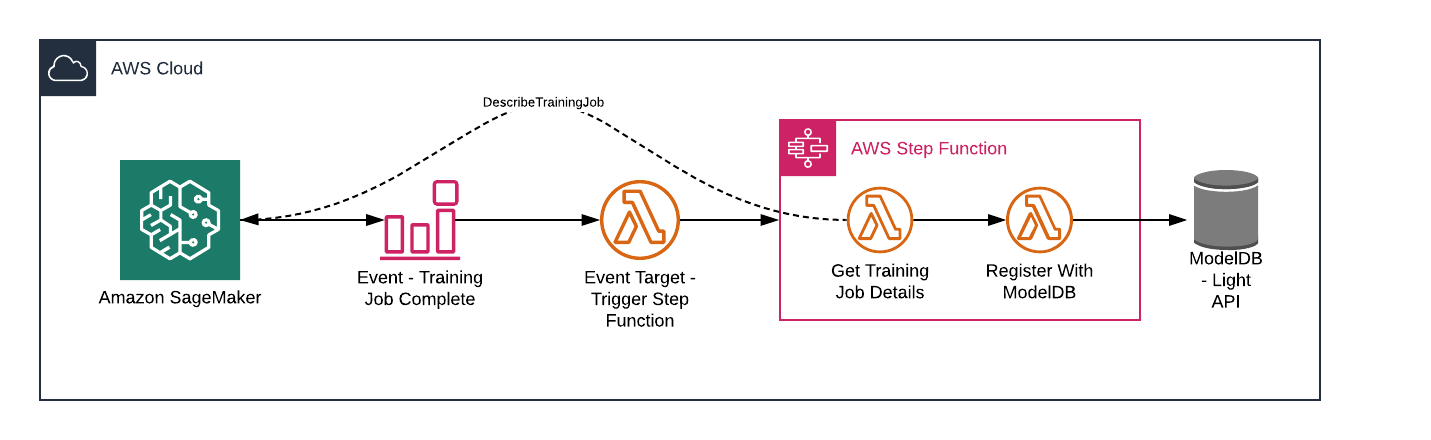
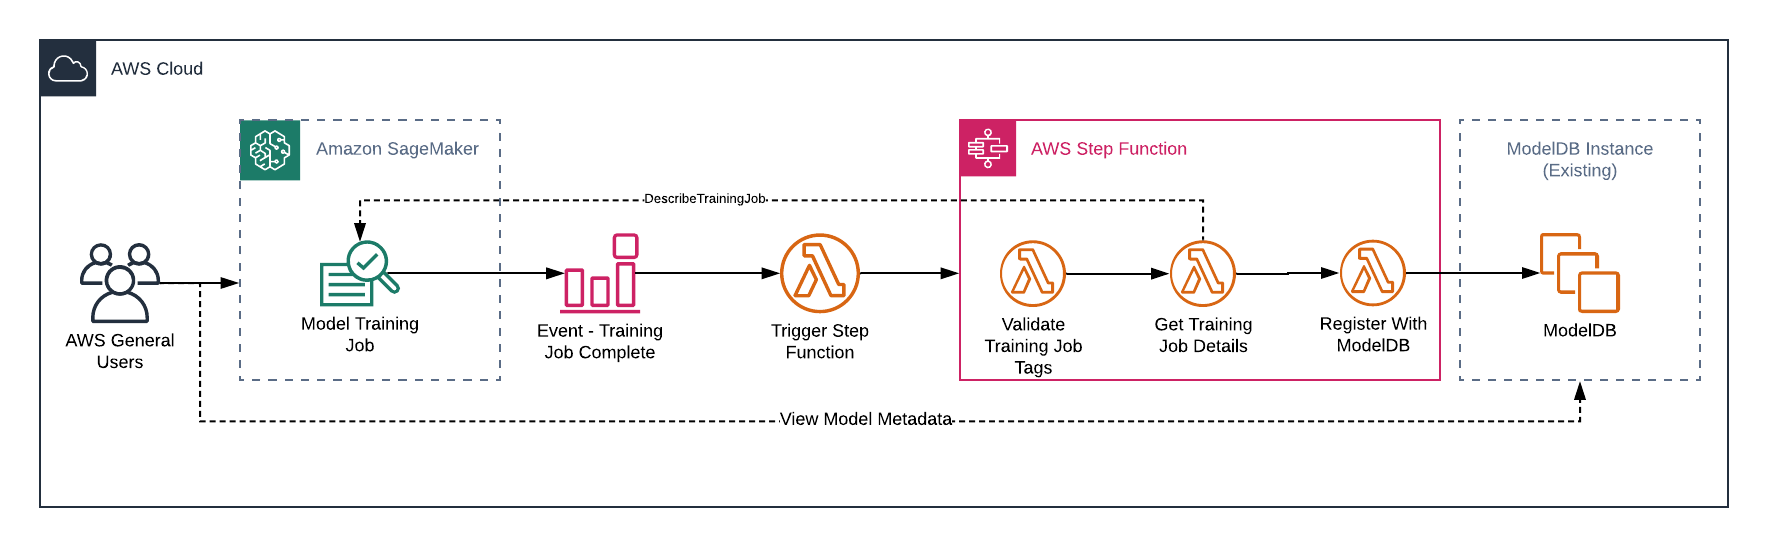
Adds validation of tags, and uses defined tag data when syncing with ModelDB.

Changed region(s): [[0.0, 0.0591, 0.9839, 0.9455], [0.8302, 0.2659, 0.9532, 0.325], [0.3382, 0.2068, 0.4305, 0.2659]]

diff --git a/functions/validate_training_job_tags/app.py b/functions/validate_training_job_tags/app.py
@@ -1,0 +1,84 @@
+ # Copyright 2019 Amazon.com, Inc. or its affiliates. All Rights Reserved.
+ #
+ # Permission is hereby granted, free of charge, to any person obtaining a copy of this
+ # software and associated documentation files (the "Software"), to deal in the Software
+ # without restriction, including without limitation the rights to use, copy, modify,
+ # merge, publish, distribute, sublicense, and/or sell copies of the Software, and to
+ # permit persons to whom the Software is furnished to do so.
+ #
+ # THE SOFTWARE IS PROVIDED "AS IS", WITHOUT WARRANTY OF ANY KIND, EXPRESS OR IMPLIED,
+ # INCLUDING BUT NOT LIMITED TO THE WARRANTIES OF MERCHANTABILITY, FITNESS FOR A
+ # PARTICULAR PURPOSE AND NONINFRINGEMENT. IN NO EVENT SHALL THE AUTHORS OR COPYRIGHT
+ # HOLDERS BE LIABLE FOR ANY CLAIM, DAMAGES OR OTHER LIABILITY, WHETHER IN AN ACTION
+ # OF CONTRACT, TORT OR OTHERWISE, ARISING FROM, OUT OF OR IN CONNECTION WITH THE
+ # SOFTWARE OR THE USE OR OTHER DEALINGS IN THE SOFTWARE.
+
+import json
+import os
+
+def validateTags(tagNames, trainingJobTags):
+    print('Validating the Existance of {} in {}'.format(tagNames, trainingJobTags))
+    
+    passedValidation = []
+    failedValidation = []
+
+    for tag in tagNames:
+        if tag['Value'] in trainingJobTags:
+            print('Tag {} Exists in Training Job Tags'.format(tag['Value']))
+            passedValidation.append(tag)
+        else:
+            print('Tag {} Does Not Exist in Training Job Tags'.format(tag['Value']))
+            failedValidation.append(tag)
+
+    if len(failedValidation) > 0:
+        print('The Folllowing Tags Failed Validation: {}'.format(failedValidation))
+        return 'FAILED'
+    else:
+        return 'PASSED'
+
+def lambda_handler(event, context):
+    print(event)
+
+    trainingJobName = event['trainingJobName']
+    trainingJobTags = event['trainingJobTags']
+
+    tagNames = [
+        {
+            'Name': 'TAG_MODEL_DB_SYNC',
+            'Value': os.environ['TAG_MODEL_DB_SYNC'],
+        },
+        {
+            'Name': 'TAG_MODEL_DB_PROJECT_NAME',
+            'Value': os.environ['TAG_MODEL_DB_PROJECT_NAME'],
+        },
+        {
+            'Name': 'TAG_MODEL_DB_PROJECT_USER',
+            'Value': os.environ['TAG_MODEL_DB_PROJECT_USER'],
+        },
+        {
+            'Name': 'TAG_MODEL_DB_PROJECT_DESC',
+            'Value': os.environ['TAG_MODEL_DB_PROJECT_DESC'],
+        },
+        {
+            'Name': 'TAG_MODEL_DB_MODEL_NAME',
+            'Value': os.environ['TAG_MODEL_DB_MODEL_NAME'],
+        },
+        {
+            'Name': 'TAG_MODEL_DB_MODEL_TYPE',
+            'Value': os.environ['TAG_MODEL_DB_MODEL_TYPE'],
+        }
+    ]
+ 
+    try:
+        validationResult = validateTags(tagNames, trainingJobTags)
+
+        return {
+            'trainingJobName': trainingJobName,
+            'tagNames': tagNames,
+            'trainingJobTags': trainingJobTags,
+            'trainingJobTagValidation': validationResult
+             }  
+
+    except Exception as e:
+        message = 'Error validating Training Job Tags: {}'.format(e)
+        raise Exception(message)

diff --git a/functions/sync_model_with_modeldb/app.py b/functions/sync_model_with_modeldb/app.py
@@ -63,14 +63,29 @@ def syncToModelDB(projectName, projectUser, projectDesc, modelName, modelType, t
         message = 'Error Synchronizing Model to Model DB: {}'.format(e)
         raise Exception(message) 
 
+def getTagValue(tagToGet, tagNames, trainingJobTags):
+    for tag in tagNames:
+        if tag['Name'] == tagToGet:
+            if tag['Value']:
+                return trainingJobTags[tag['Value']]
+            else:
+                return 'Default'
+
 def lambda_handler(event, context):
     print(event)
 
     modeldbInstanceUrl = os.environ['MODEL_DB_INSTANCE_URL']
     modeldbInstancePort = os.environ['MODEL_DB_INSTANCE_PORT']
 
-    trainingJobDetails = json.loads(event['data']['trainingJobDetails'])
+    tagNames = event['data']['tagNames']
+    trainingJobTags = event['data']['trainingJobTags']
 
-    print(trainingJobDetails)
+    projectName = getTagValue('TAG_MODEL_DB_PROJECT_NAME', tagNames, trainingJobTags)
+    projectUser = getTagValue('TAG_MODEL_DB_PROJECT_USER', tagNames, trainingJobTags)
+    projectDesc = getTagValue('TAG_MODEL_DB_PROJECT_DESC', tagNames, trainingJobTags)
+    modelName = getTagValue('TAG_MODEL_DB_MODEL_NAME', tagNames, trainingJobTags)
+    modelType = getTagValue('TAG_MODEL_DB_MODEL_TYPE', tagNames, trainingJobTags)
     
-    syncToModelDB('Sample Project', 'Example User', 'This is a sample project.', 'testmodel', 'NN', trainingJobDetails, modeldbInstanceUrl, modeldbInstancePort)
+    trainingJobDetails = json.loads(event['data']['trainingJobDetails'])
+    
+    syncToModelDB(projectName, projectUser, projectDesc, modelName, modelType, trainingJobDetails, modeldbInstanceUrl, modeldbInstancePort)

diff --git a/functions/get_training_job_details/app.py b/functions/get_training_job_details/app.py
@@ -20,15 +20,16 @@ from datetime import date, datetime
 client = boto3.client('sagemaker')
 
 # JSON Serializer for Metric TimeStamps
-def json_serial(obj):
+def jsonSerial(obj):
     if isinstance(obj, (datetime, date)):
         return obj.isoformat()
     raise TypeError ("Type %s not serializable." % type(obj))
 
 def lambda_handler(event, context):
 
-    trainingJobName = event['trainingJobName']
-    trainingJobTags = event['trainingJobTags']
+    trainingJobName = event['data']['trainingJobName']
+    trainingJobTags = event['data']['trainingJobTags']
+    tagNames = event['data']['tagNames']
 
     try:
         response = client.describe_training_job(
@@ -37,8 +38,9 @@ def lambda_handler(event, context):
 
         return {
             'trainingJobName': trainingJobName,
+            'tagNames': tagNames,
             'trainingJobTags': trainingJobTags,
-            'trainingJobDetails': json.dumps(response, default=json_serial)
+            'trainingJobDetails': json.dumps(response, default=jsonSerial)
         }  
 
     except Exception as e:

diff --git a/functions/step_function_trigger/app.py b/functions/step_function_trigger/app.py
@@ -29,7 +29,7 @@ def lambda_handler(event, context):
             'waitTime': 60
         }
 
-        print('Training Job Completed - Triggering ModelDB Registration Workflow for: {}'.format(executionInput))
+        print('Training Job Completed - Triggering ModelDB Synchronization Workflow for: {}'.format(executionInput))
 
         stateMachineArn = os.environ['STATE_MACHINE_ARN']
        

diff --git a/README.md b/README.md
@@ -6,17 +6,29 @@
 
 This sample deploys a simple event-based architecture to synchronize SageMaker Training Jobs to ModelDB with the ModelDB Light API. To synchronize your training jobs to ModelDB, you simply need to perform the following.
 
+### Limitations
+
+* Expects a publically accessible ModelDB instance. This is acceptable for some testing but you may want to consider deploying your ModelDB instance within a VPC, and updating the template.yaml file to configure the SyncModelWithModelDBFunction Lambda Function to use this VPC. You could also further configure the Lambda Function code to utilize any authentication mechanisms you've implemented as part of your ModelDB deployment.
+* Currently supports ModelDB V1. The ModelDB project has announced that ModelDB V2 is comming soon, and once released this project may need to be updated to support V2 depending on any changes made to the Light API.
+
+### Getting Sarted
 * Deploy this solution into the AWS Account where you are conducting SageMaker Training. When you deploy the solution you will need to provide the following parameters.
     * ModelDB Instance and Port to synchronize with.
-* Update your training jobs to include the following tags:
-    * Key: MODEL_DB_SYNC Value: true
+
+### Tag Detail
+
+As you create SageMaker Training Jobs, include the folllowing tags, as they will be used for synchronizing the trained model to ModelDB.
+
+![Alt text](docs/tags.png?raw=true "Tags")
+
+    * Key: MODEL_DB_SYNC Value: [Key Must Exist to Sync, Any Value Accepted]
     * Key: MODEL_DB_PROJECT_NAME Value: [Project Name]
     * Key: MODEL_DB_PROJECT_USER Value: [Project User Name]
     * Key: MODEL_DB_PROJECT_DESC Value: [Project Description]
     * Key: MODEL_DB_MODEL_NAME Value: [Model Name]
     * Key: MODEL_DB_MODEL_TYPE Value: [Model Type]
 
-NOTE: Tag keys are configurable by overriding the parameter corresponding to the tag you'd like to customize. This can be useful if you'd like to use tags that already exist on your training jobs.
+NOTE: Tag keys are configurable by overriding the parameter corresponding to the tag you'd like to customize. This can be useful if you'd like to use tags that already exist on your training jobs. 
 
 * TagModelDBSync = MODEL_DB_SYNC
 * TagModelDBProjectName = MODEL_DB_PROJECT_NAME
@@ -56,9 +68,7 @@ sam package \
 2. Open the CloudFormation service.
 3. Click "Create Stack"
 4. Navigate to the packaged.yaml file stored locally (this package is created with the sam package command and references code artifacts in S3)
-5. Enter the required parameters and launch the stack (you will need to confirm a few more screens, and generate a change-set.). There's an explaination of each parameter further down in this document.
-
-![Alt text](docs/parameters.png?raw=true "Parameters")
+5. Enter the required parameters and launch the stack (you will need to confirm a few more screens, and generate a change-set.).
 
 ### CLI
 
@@ -70,14 +80,9 @@ sam deploy \
     --stack-name aws-sagemaker-modeldb-connector \
     --capabilities CAPABILITY_IAM \
     --parameter-overrides \
-    ModelDBInstanceURL=[SOURCE_BUCKET] \
+    ModelDBInstanceUrl=[MODEL_DB_INSTANCE_URL] \
+    ModelDBInstancePort=[MODEL_DB_INSTANCE_PORT]
 
 aws cloudformation describe-stacks \
     --stack-name amazon-personalize-data-conversion-pipeline --query 'Stacks[].Outputs'
 ```
-
-
-### TODO
-
-* ModelDB Version 2 Support
-* Tag-Based Filtering
